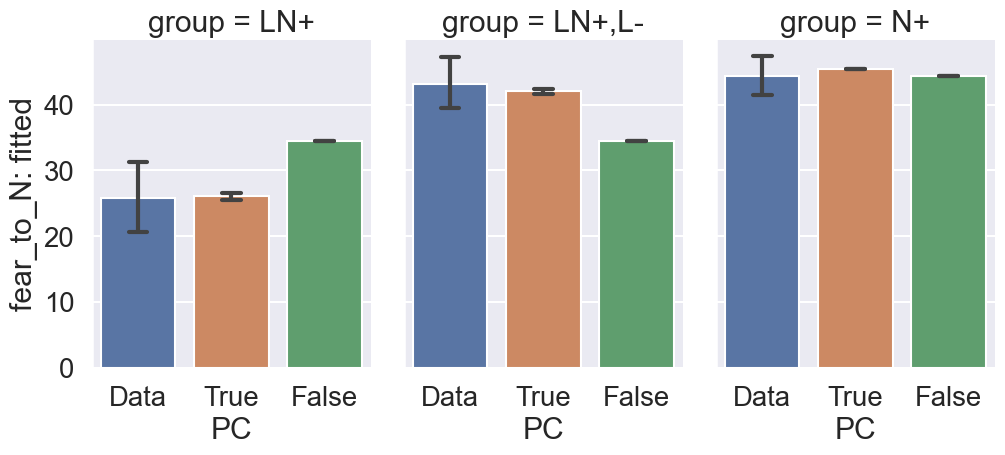
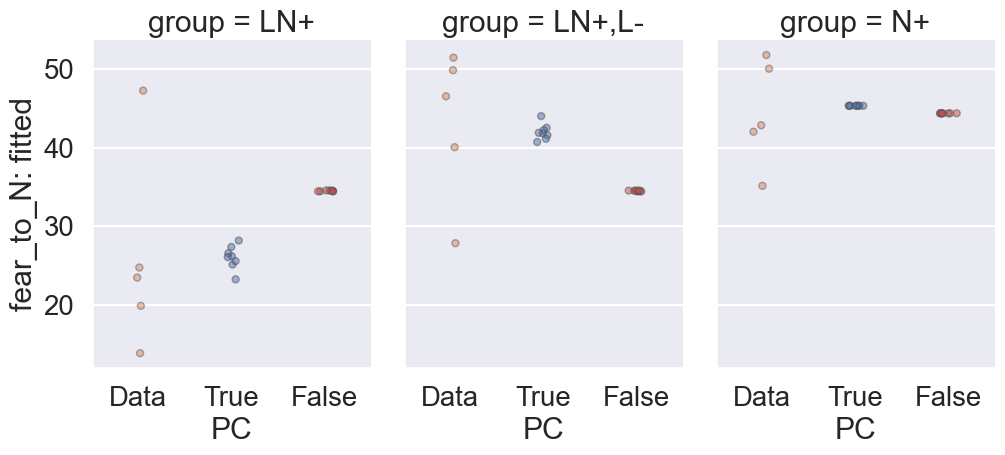
add files

diff --git a/experiments/nature_fear_conditioning/utils.py b/experiments/nature_fear_conditioning/utils.py
@@ -148,6 +148,13 @@ def fit_data_and_plot(df, kind='bar'):
         'data': df,
         'x': method_column,
         'y': f'{metric_column}: fitted',
+        'palette': np.concatenate(
+            (
+                sns.color_palette()[3:4],
+                sns.color_palette()[0:1],
+                sns.color_palette()[1:2],
+            )
+        ),
         # 'hue': method_column,
         # 'palette': 'Blues',
         'order': [
@@ -161,6 +168,7 @@ def fit_data_and_plot(df, kind='bar'):
 
         g = au.nature_catplot(
             kind='strip',
+            hue=method_column,
             linewidth=1,
             alpha=0.5,
             **plot_kwargs,

diff --git a/experiments/nature_fear_conditioning/README.md b/experiments/nature_fear_conditioning/README.md
@@ -43,7 +43,6 @@ python analysis_v1.py \
 # base
 
 ```bash
-# waiting rafal reply
 python analysis_v1.py \
 -t "base" \
 -l "../general-energy-nets-results/nature_fear_conditioning/" \
@@ -51,7 +50,7 @@ python analysis_v1.py \
 -f "./experiments/nature_fear_conditioning/base.yaml" \
 -v \
 "import experiments.nature_fear_conditioning.utils as eu" \
-"eu.fit_data_and_plot(df)"
+"eu.fit_data_and_plot(df,'strip')"
 ```
 
 ![](./base-.png)
@@ -65,7 +64,6 @@ ray job submit --runtime-env runtime_envs/runtime_env_without_ip.yaml --address 
 ```
 
 ```bash
-# waiting rafal reply
 python analysis_v1.py \
 -t "base-init_std" \
 -l "../general-energy-nets-results/nature_fear_conditioning/" \
